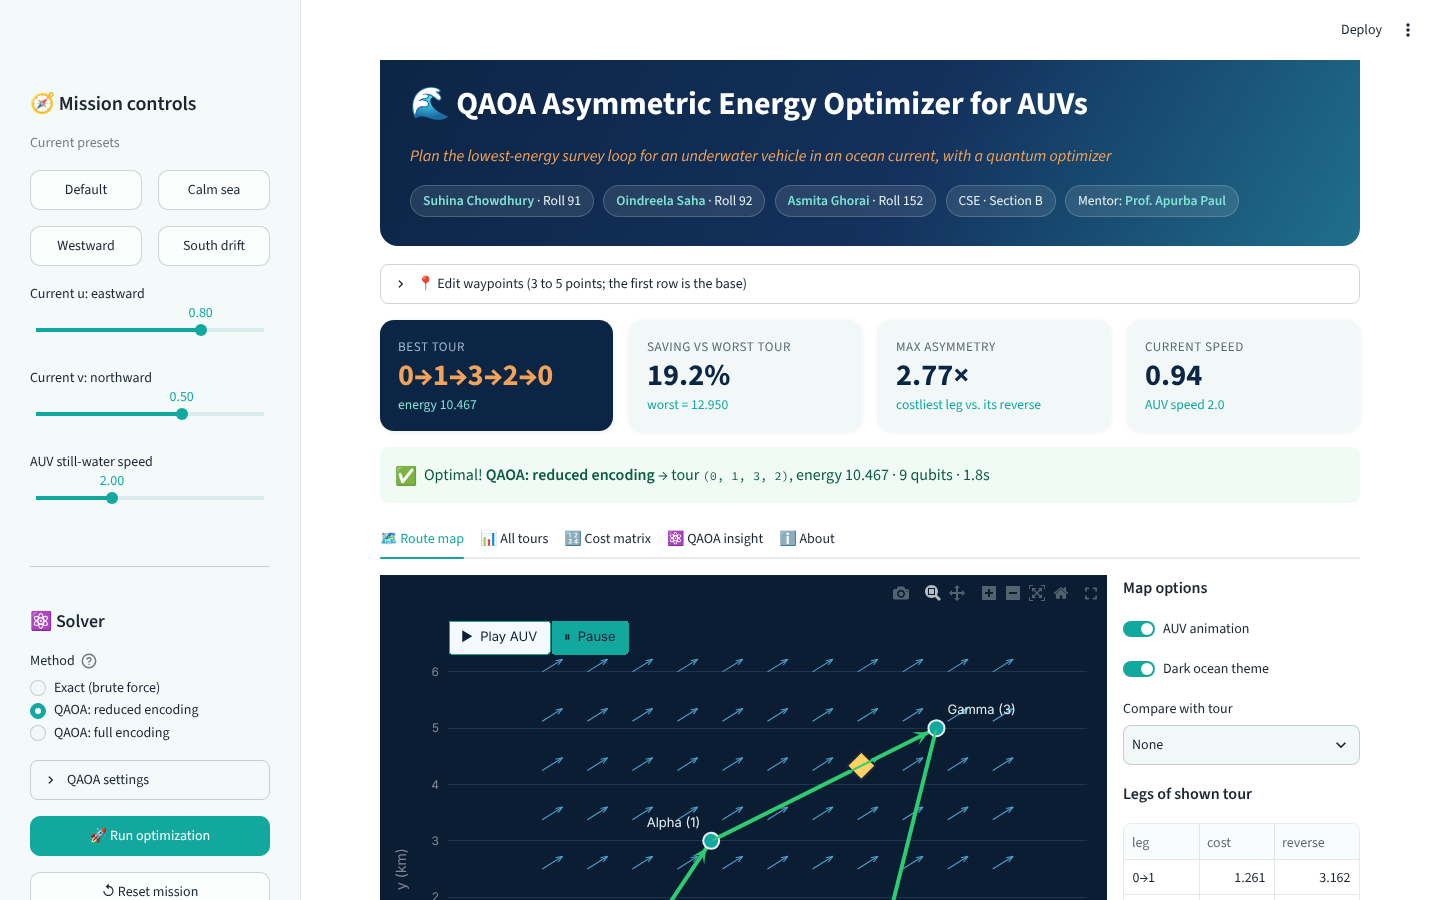
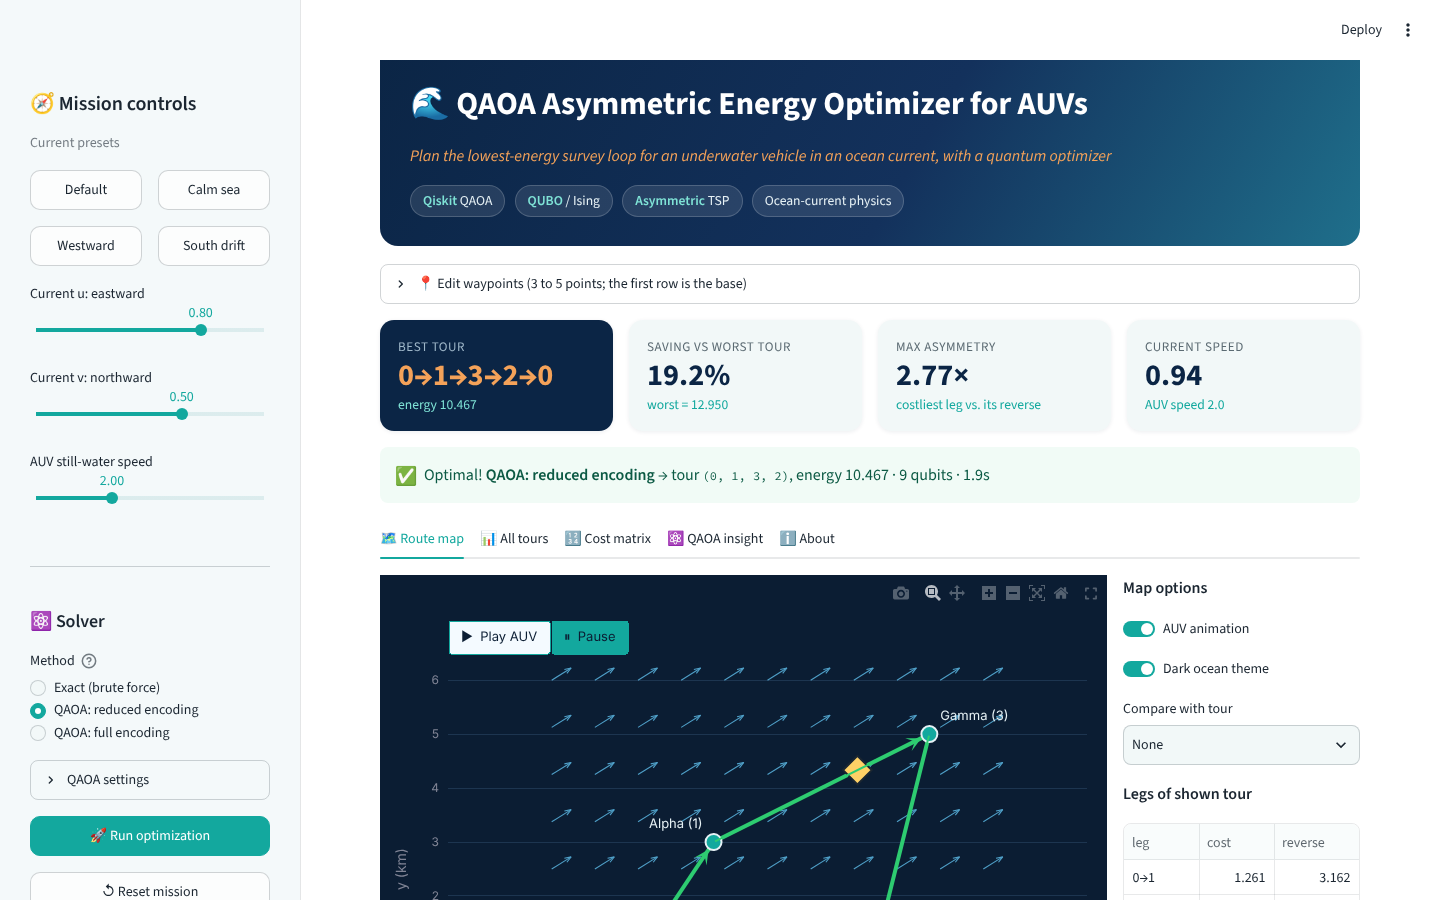
Remove student and mentor names from app, README and screenshots

Changed region(s): [[0.3125, 0.7778, 0.75, 1.0], [0.2812, 0.2178, 0.8438, 0.2489]]

diff --git a/app.py b/app.py
@@ -40,11 +40,10 @@ st.markdown("""
 <div class="hero">
   <h1>🌊 QAOA Asymmetric Energy Optimizer for AUVs</h1>
   <div class="sub">Plan the lowest-energy survey loop for an underwater vehicle in an ocean current, with a quantum optimizer</div>
-  <span class="chip"><b>Suhina Chowdhury</b> · Roll 91</span>
-  <span class="chip"><b>Oindreela Saha</b> · Roll 92</span>
-  <span class="chip"><b>Asmita Ghorai</b> · Roll 152</span>
-  <span class="chip">CSE · Section B</span>
-  <span class="chip">Mentor: <b>Prof. Apurba Paul</b></span>
+  <span class="chip"><b>Qiskit</b> QAOA</span>
+  <span class="chip"><b>QUBO</b> / Ising</span>
+  <span class="chip"><b>Asymmetric</b> TSP</span>
+  <span class="chip">Ocean-current physics</span>
 </div>""", unsafe_allow_html=True)
 
 DEFAULT_WP = pd.DataFrame({
@@ -243,7 +242,4 @@ cost depend on direction, so the task is an *Asymmetric Traveling Salesperson Pr
 
 **Honest note.** With 3 to 5 waypoints a classical computer solves this instantly. The project shows *how* a
 real-world routing problem is mapped to a quantum optimizer. It does not show quantum advantage.
-
-**Team:** Suhina Chowdhury (91) · Oindreela Saha (92) · Asmita Ghorai (152), CSE Section B
-**Mentor:** Prof. Apurba Paul
 """)

diff --git a/README.md b/README.md
@@ -1,15 +1,5 @@
 # QAOA Asymmetric Energy Optimization for Marine AUVs
 
-Innovative project, Dept. of Computer Science & Engineering (CSE, Section B)
-
-| Team member | Roll No. | Enrollment No. |
-|---|---|---|
-| Suhina Chowdhury | 91 | ______________ |
-| Oindreela Saha | 92 | 12024052002024 |
-| Asmita Ghorai | 152 | 12024052002066 |
-
-**Mentor:** Prof. Apurba Paul
-
 ![Dashboard](docs/dashboard.png)
 
 ## What it does
